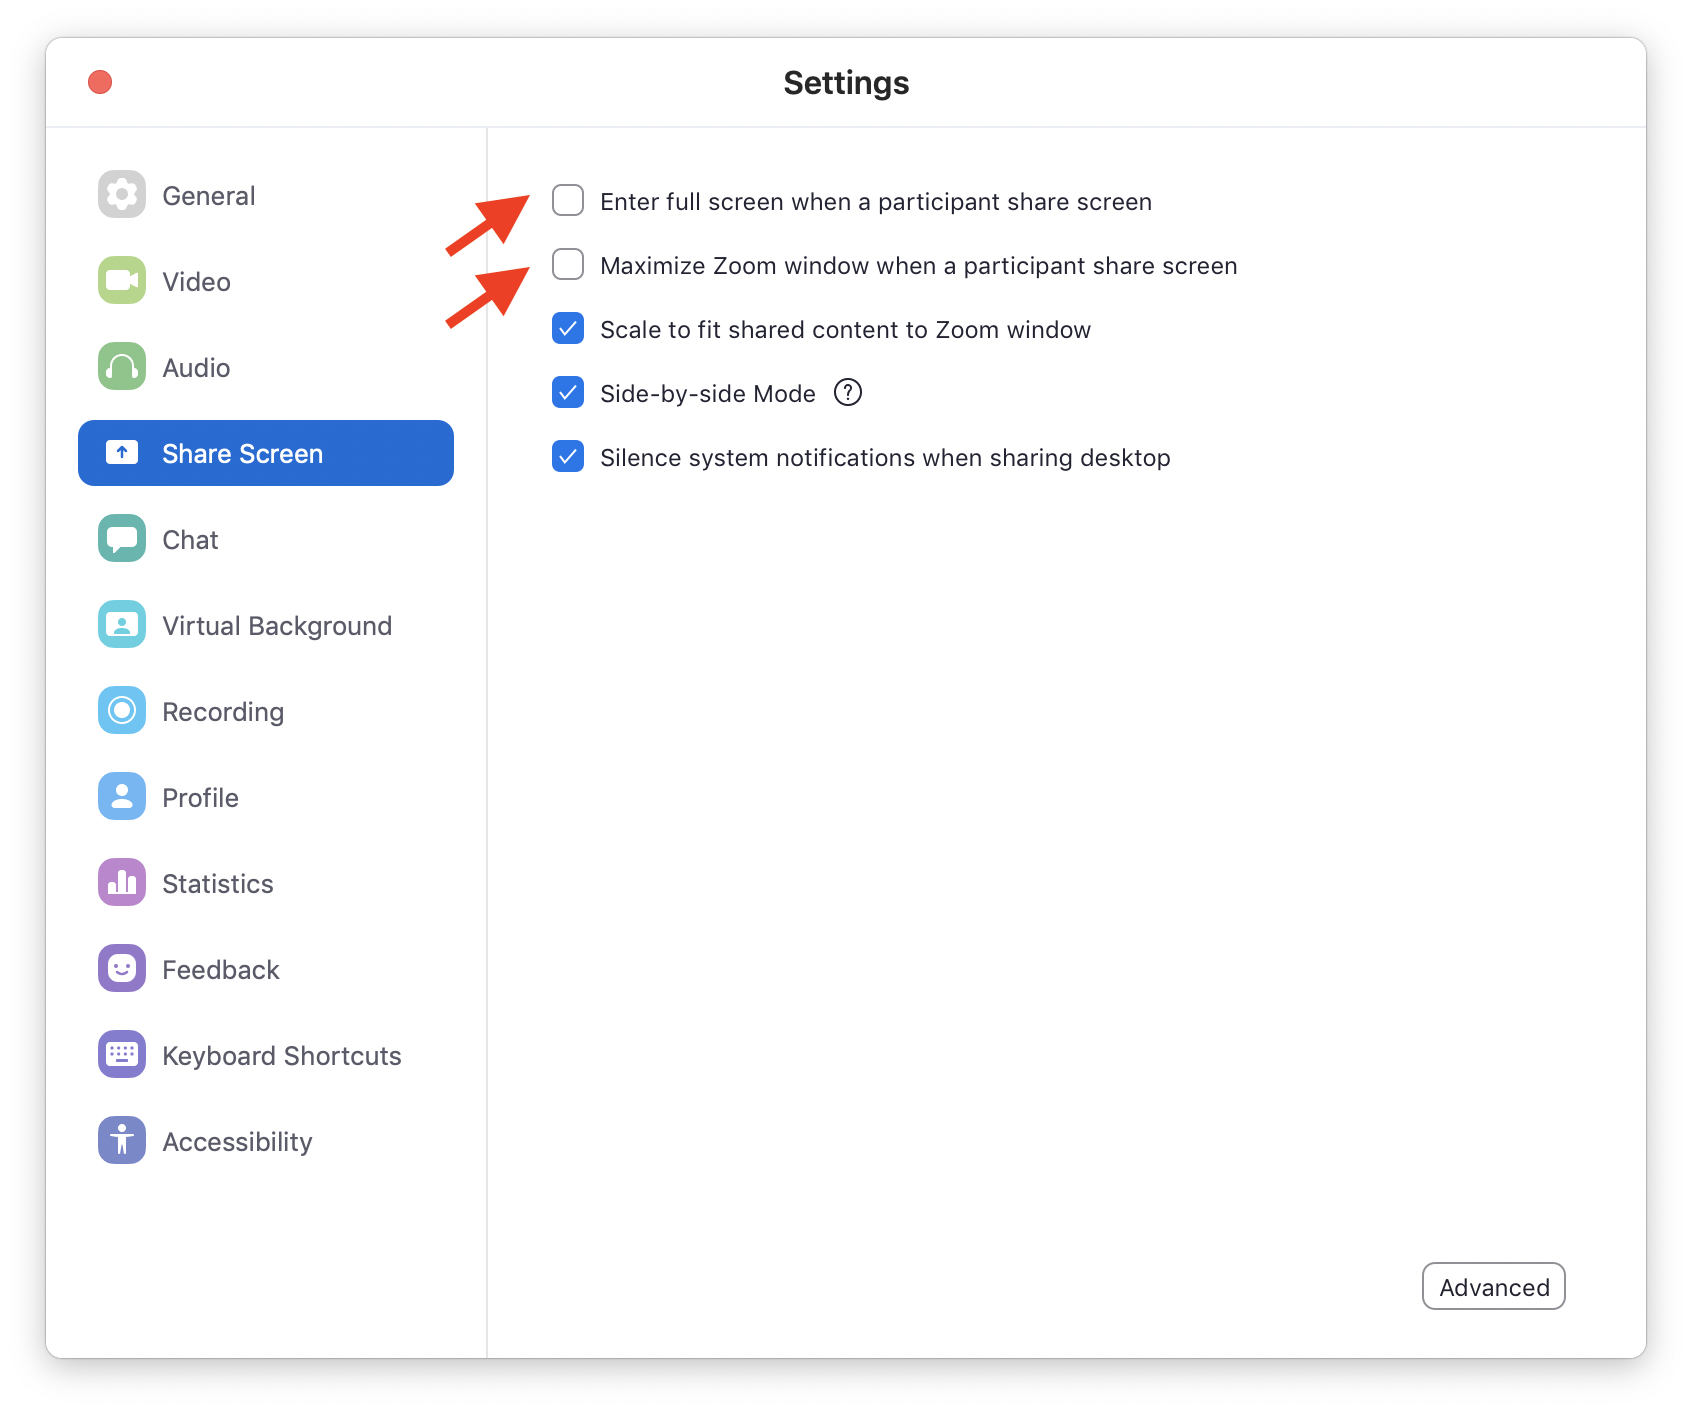
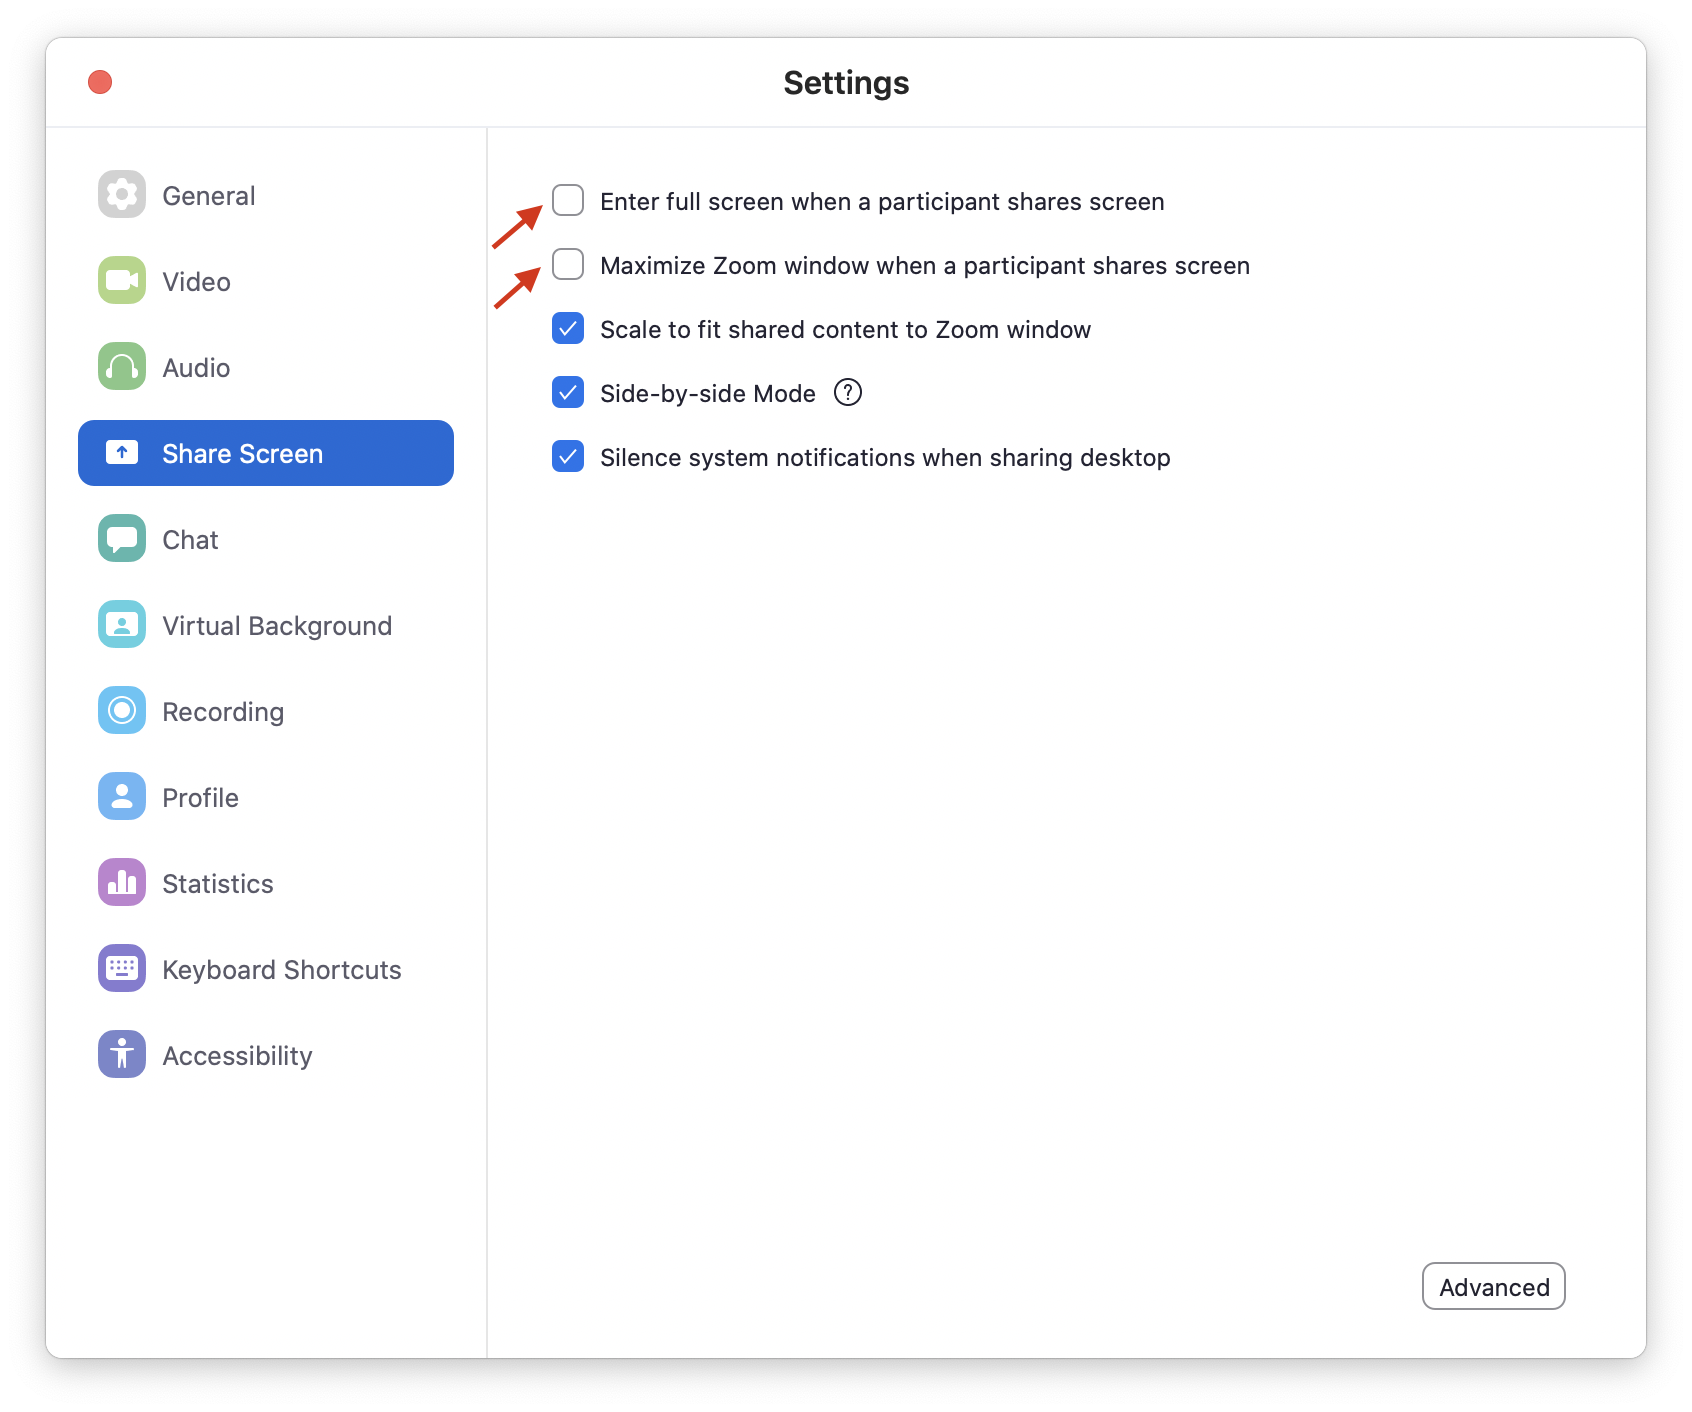
Fix Zoom's grammar

diff --git a/virtual-setup/mac-instructions.md b/virtual-setup/mac-instructions.md
@@ -59,7 +59,7 @@ Select **Video** from sidebar to make sure your camera is set up; you will likel
 
 <img src="screenshots/mac-zoom-09-video-prefs.png" alt="Video preferences" width=500>
 
-Select **Share Screen** from the sidebar and uncheck *Enter full screen when a participant share screen* and *Maximize Zoom window when a participant share screen*.
+Select **Share Screen** from the sidebar and uncheck *Enter full screen when a participant shares screen* and *Maximize Zoom window when a participant shares screen*.
 
 <img src = screenshots/mac-zoom-10-share-screen-prefs.png width = 500>
 
